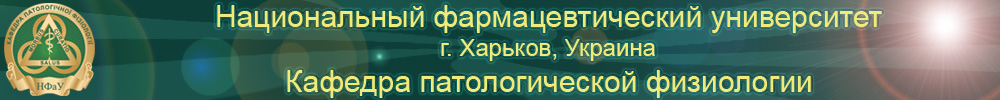
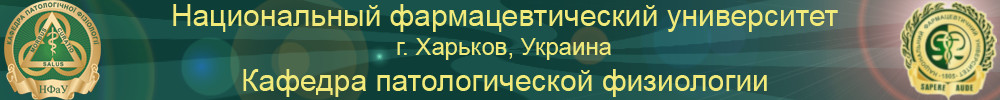
Update

diff --git a/resources/views/layouts/app.blade.php b/resources/views/layouts/app.blade.php
@@ -24,11 +24,11 @@
 <div class="container">
     <div class="col-sm-1"></div>
     <div class="container-fluid">
-        <div class="row mx-1 my-3">
-            <div class="col d-flex p-0 border-dark justify-content-end" id="logo"style="background-size:  100% 100% !important; background: url('/img/title_{{app()->getLocale()}}.jpg') no-repeat; min-height: 12vh">
-                <a href="http://nuph.edu.ua" target="_blank">
-                    <div class="float-right h-100 my-auto" style="background-size: contain !important; background: url('/img/nphau_logo.png') no-repeat; min-width: 11vh"></div>
-                </a>    
+        <div class="card mx-1 my-3 border-dark">
+            <img src="{{ url('/img/title_'.app()->getLocale().'.jpg') }}" class="card-img rounded" alt="title">
+            <div class="card-img-overlay p-0">
+                <a href="{{ route('index') }}" class="card-text d-block h-100 float-left m-0" style="width: 11%">&nbsp;</a>
+                <a href="http://nuph.edu.ua/" target="_blank" class="card-text d-block h-100 float-right m-0" style="width: 11%">&nbsp;</a>
             </div>
         </div>
     <div class="row mx-1">
